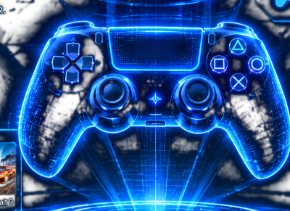
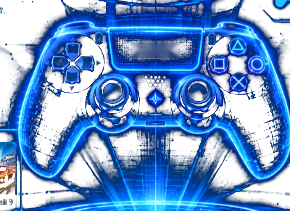
Faces blend into the screen (soft edges, clamped glow, cleaner pictures), no column scroll bars, replies named after the active mode, speaking watchdog

diff --git a/ui/animations.py b/ui/animations.py
@@ -175,15 +175,19 @@ class AICoreWidget(QWidget):
 
         col = QColor("#FF5252") if st == AIState.ERROR else QColor(accent)
         beat = 0.5 + 0.5 * math.sin(ph * (3 if speaking else 1))
-        for rad, a0 in ((0.85, 40), (0.6, 85)):                  # two soft layers of glow
-            glow = QRadialGradient(cx, cy, big * rad)
+        room = min(self.width(), self.height()) / 2 - 2           # a glow must fade out before the edge of this widget
+        for rad, a0 in ((0.85, 34), (0.6, 70)):                  # two soft layers of glow
+            gr = min(big * rad, room)
+            glow = QRadialGradient(cx, cy, gr)
             col.setAlpha(int(a0 * (0.6 + 0.7 * beat)))
             glow.setColorAt(0.0, col)
+            col.setAlpha(int(a0 * (0.6 + 0.7 * beat) * 0.35))
+            glow.setColorAt(0.55, col)
             col.setAlpha(0)
             glow.setColorAt(1.0, col)
             painter.setPen(Qt.NoPen)
             painter.setBrush(QBrush(glow))
-            painter.drawEllipse(QPointF(cx, cy), big * rad, big * rad)
+            painter.drawEllipse(QPointF(cx, cy), gr, gr)
 
         if st == AIState.LISTENING:                              # ripples spreading outwards
             for k in range(3):
@@ -241,9 +245,18 @@ class AICoreWidget(QWidget):
                 (lp.drawEllipse if shape == "ellipse" else lp.drawRect)(lid)
 
         lp.setCompositionMode(QPainter.CompositionMode_SourceAtop)
-        y = int(((self._angle / 360.0 * 1.6) % 1.0) * (h + 40)) - 20      # the scan line
-        lp.fillRect(0, y, w, 6, QColor(255, 255, 255, 70))
-        lp.fillRect(0, y + 6, w, 14, QColor(accent.red(), accent.green(), accent.blue(), 35))
+        y = int(((self._angle / 360.0 * 1.6) % 1.0) * (h + 40)) - 20      # a faint scan line
+        lp.fillRect(0, y, w, 2, QColor(255, 255, 255, 38))
+        lp.fillRect(0, y + 2, w, 10, QColor(accent.red(), accent.green(), accent.blue(), 16))
+        # soften the edges so the picture melts into the screen instead of showing its rectangle
+        lp.setCompositionMode(QPainter.CompositionMode_DestinationIn)
+        lp.translate(w / 2.0, h / 2.0)
+        lp.scale(w / 2.0, h / 2.0)
+        fade = QRadialGradient(0.0, 0.0, 1.0)
+        fade.setColorAt(0.0, QColor(0, 0, 0, 255))
+        fade.setColorAt(0.78, QColor(0, 0, 0, 255))
+        fade.setColorAt(1.0, QColor(0, 0, 0, 0))
+        lp.fillRect(QRectF(-1.0, -1.0, 2.0, 2.0), QBrush(fade))
         lp.end()
 
         # a hologram shimmers; every few seconds it glitches for a blink: a band slips sideways

diff --git a/ui/main_window.py b/ui/main_window.py
@@ -327,6 +327,7 @@ class MainWindow(QMainWindow):
         sa.setWidgetResizable(True)
         sa.setFrameShape(QFrame.NoFrame)
         sa.setHorizontalScrollBarPolicy(Qt.ScrollBarAlwaysOff)
+        sa.setVerticalScrollBarPolicy(Qt.ScrollBarAlwaysOff)       # no scroll bar to see; the mouse wheel still scrolls
         sa.setStyleSheet("QScrollArea { background: transparent; border: 0; } "
                          "QScrollArea > QWidget > QWidget { background: transparent; } "
                          "QScrollBar:vertical { width: 6px; background: transparent; } "
@@ -1219,7 +1220,20 @@ class MainWindow(QMainWindow):
         self._append_conversation("EV", f"(error) {message}")
         QTimer.singleShot(1800, lambda: self._apply_state(AIState.IDLE))
 
-    def _deliver_reply(self, reply: str, speaker: str = "EV", speak_text: str | None = None):
+    def _speaker_name(self) -> str:
+        """Who is talking: EV, or the mode that is on (Karen, Tars, Baymax...), so the chat names the right voice."""
+        name = self._current_mode_name()
+        return "EV" if name == "ev" else name.upper()
+
+    def _speak_watchdog(self) -> None:
+        """If the voice never reported back (TTS hiccup), do not stay on SPEAKING and ignore the chat box."""
+        w = self._speech_worker
+        if self._state == AIState.SPEAKING and (w is None or not w.isRunning()):
+            self._apply_state(AIState.IDLE)
+
+    def _deliver_reply(self, reply: str, speaker: str | None = None, speak_text: str | None = None):
+        speaker = speaker or self._speaker_name()
+        QTimer.singleShot(max(7000, len(speak_text if speak_text is not None else reply) * 90), self._speak_watchdog)
         self._apply_state(AIState.SPEAKING)
         self._append_conversation(speaker, reply)
         if self._hud_overlay is not None:
@@ -1708,9 +1722,9 @@ class MainWindow(QMainWindow):
         """EV announces the switch in its own voice; then the character takes over and speaks its line in its own voice.
         With cut_off, EV's sentence is spoken only up to that text and the character barges in at once."""
         if cut_off:
-            self._deliver_reply(intro, speak_text=cut_off)
+            self._deliver_reply(intro, "EV", speak_text=cut_off)
         else:
-            self._deliver_reply(intro)
+            self._deliver_reply(intro, "EV")
         worker = self._speech_worker if (VOICE_AVAILABLE and user_prefs.get("speak_replies")) else None
 
         def arrive():
